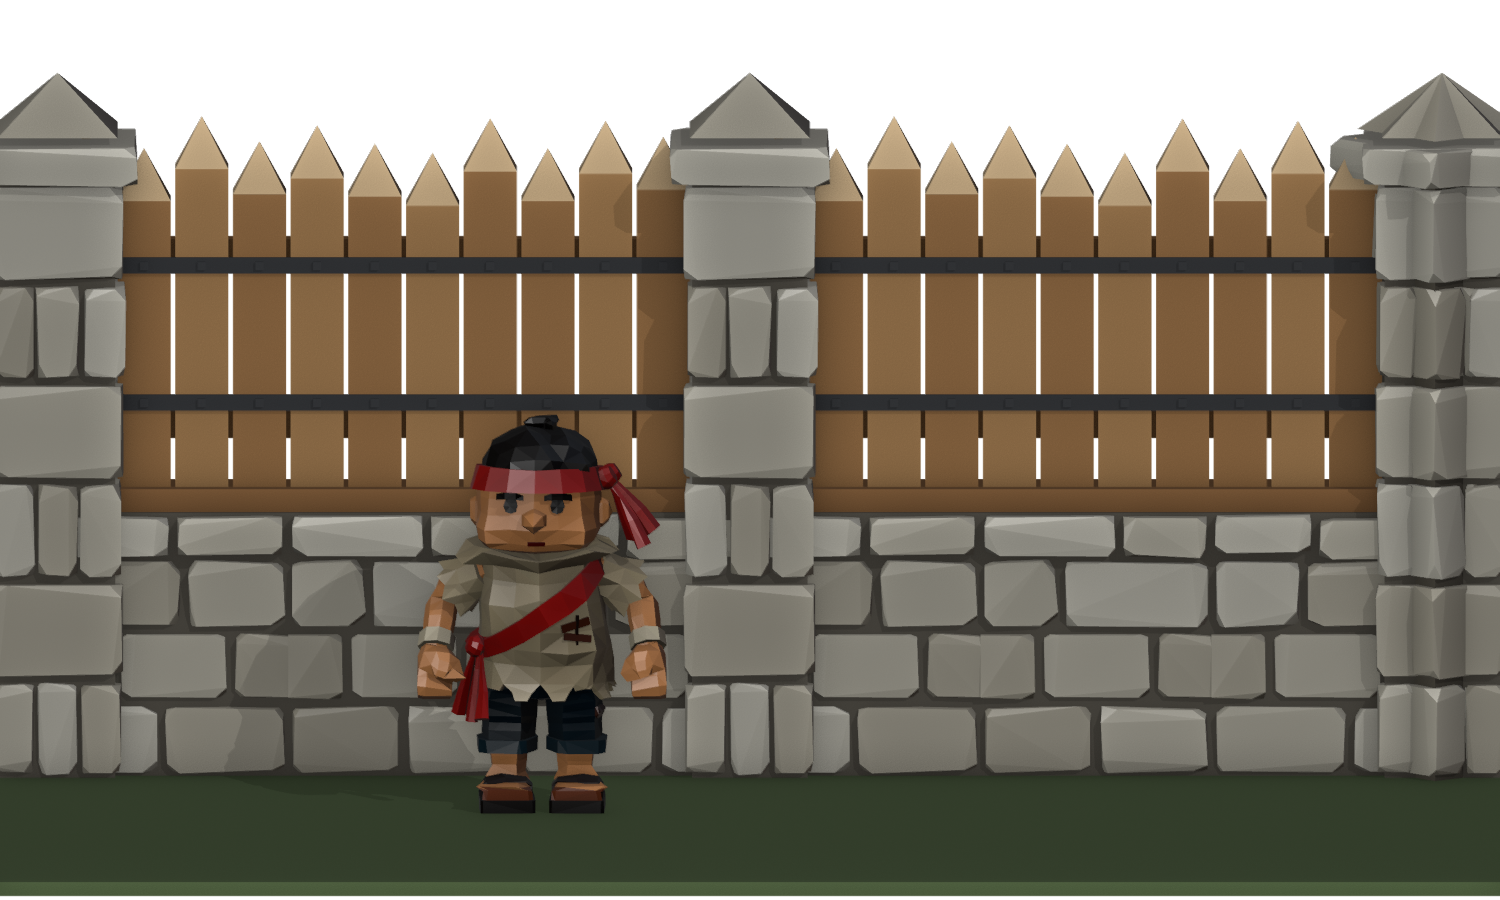
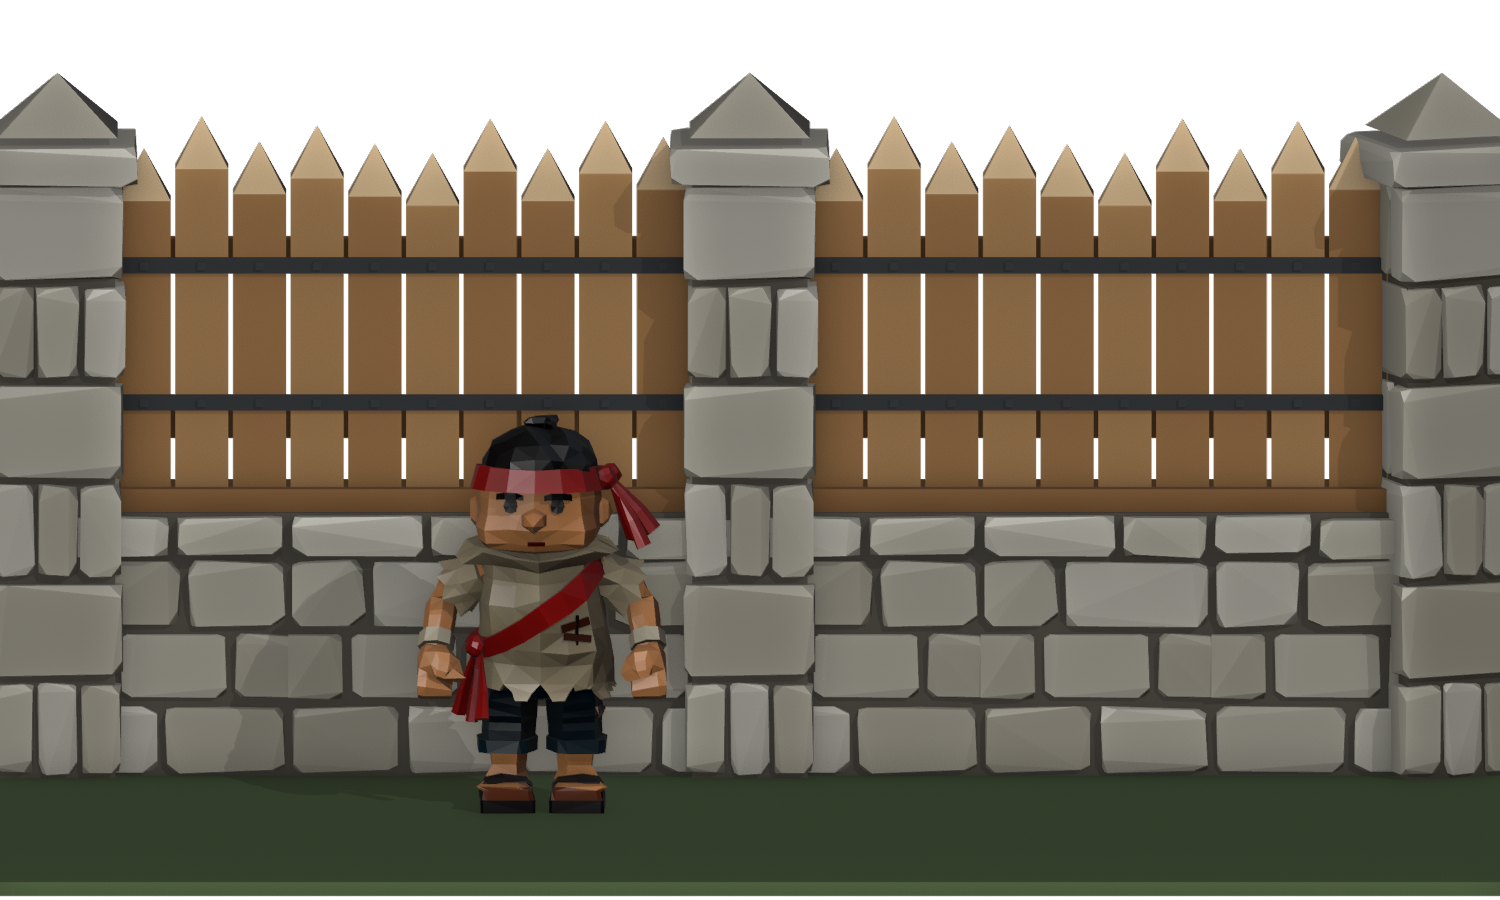
Wall level 2: one pillar per bend, turned to the bisector
The renders' wall_line placed a pillar at the end of each leg and
another at the start of the next, so the 40-degree bend had two pillars
crossed at an angle. It now walks the whole polyline once: one pillar
per node, an end node facing its leg, a bend node on the bisector.
Adds close-up, rear and top renders of the bend.

Claude-Session: https://claude.ai/code/session_016CGLgDxKZuNqnwErxW1EMm

Changed region(s): [[0.8893, 0.0933, 1.0, 0.8711]]

diff --git a/tools/blender/wall_l2_concept.py b/tools/blender/wall_l2_concept.py
@@ -194,15 +194,20 @@ def import_l1(f):
     return [o for o in new if o.parent is None]
 
 
-def wall_line(make_run,make_post,start,yaw,spans):
-    """Posts and runs along a polyline: spans = metres between post centres
-    (whole metres, as the adapter would tile them)."""
-    d=Vector((math.cos(math.radians(yaw)),math.sin(math.radians(yaw)),0));at=Vector(start)
-    make_post(at,yaw)
-    for L in spans:
-        for i in range(L):make_run(at+d*i,yaw,i)
-        at=at+d*L;make_post(at,yaw)
-    return at
+def wall_line(make_run,make_post,start,legs):
+    """A wall along a polyline: legs = [(yaw degrees, whole metres)], as the
+    adapter would tile them. One pillar per node, never two: an end node
+    faces its leg, a bend node is turned to the bisector of the two legs
+    that meet there (a square pillar looks right from both)."""
+    nodes=[Vector(start)];dirs=[]
+    for yaw,L in legs:
+        d=Vector((math.cos(math.radians(yaw)),math.sin(math.radians(yaw)),0))
+        for i in range(L):make_run(nodes[-1]+d*i,yaw,i)
+        nodes.append(nodes[-1]+d*L);dirs.append(yaw)
+    for k,at in enumerate(nodes):
+        inc=dirs[max(0,k-1):k+1]                     # the legs meeting at this node
+        make_post(at,sum(inc)/len(inc))
+    return nodes[-1]
 
 
 def main():
@@ -230,8 +235,7 @@ def main():
     def mk_post(at,yaw):
         o=bpy.data.objects.new('post',pk.data);sc.collection.objects.link(o)
         place(o,at,yaw);o.location-=Matrix.Rotation(math.radians(yaw),3,'Z')@Vector((POST_W/2,0,0))
-    end=wall_line(mk_run,mk_post,(0,0,0),0,[3,3])
-    wall_line(mk_run,mk_post,end,40,[3])
+    wall_line(mk_run,mk_post,(0,0,0),[(0,3),(0,3),(40,3)])
     ground=Part('ground');ground.box((3.5,1.5,-.03),(16,10,.06),'mortar_d');g=ground.build(objs)
     g.data.color_attributes['Col'].data.foreach_set('color',[v for _ in range(len(g.data.loops)) for v in (*[S.lin(c) for c in (104,128,78)],1)])
     # the deckhand for scale, outside the wall
@@ -243,6 +247,9 @@ def main():
     S.shoot(cam,OUT/'wall-l2-front.png',0,8,6.5,target=(3,0,1.4),res=(1500,900))
     S.shoot(cam,OUT/'wall-l2-rear.png',165,24,9.5,target=(4.3,1.0,1.2),res=(1600,1000))
     S.shoot(cam,OUT/'wall-l2-closeup.png',-38,16,3.3,target=(3.1,0,1.5),res=(1200,1100))
+    S.shoot(cam,OUT/'wall-l2-bend.png',-25,30,3.6,target=(6.1,.2,1.6),res=(1000,1100))      # the 40-degree bend: one pillar
+    S.shoot(cam,OUT/'wall-l2-bend-rear.png',150,30,3.6,target=(6.1,.2,1.6),res=(1000,1100))
+    S.shoot(cam,OUT/'wall-l2-bend-top.png',0,89.9,2.4,target=(6.0,0,1.0),res=(1000,1000))
 
     # level 1 and level 2 side by side, same camera and scale
     fetch_l1()

diff --git a/wall-l2-concept/README.md b/wall-l2-concept/README.md
@@ -44,12 +44,17 @@ it too:
 | `Wall2_Run_1m_A` / `B` / `C` | 714 each |
 | `Wall2_Post` | 1,118 |
 
+**At a bend:** one pillar per node, never two, turned halfway between the two legs that meet there. The
+first version put a pillar at the end of one leg and another at the start of the next, crossed at 40°.
+The renders' `wall_line` now walks the whole polyline once. The game's wall adapter needs the same rule.
+
 ## Files
 
 | File | What |
 |---|---|
 | `wall-l2-kit.fbx` | The three runs and the pillar, with their snap and centre markers |
 | `wall-l2-hero.png`, `wall-l2-rear.png`, `wall-l2-front.png`, `wall-l2-closeup.png` | A 9 m stretch with a 40° bend, and the deckhand for scale |
+| `wall-l2-bend.png`, `wall-l2-bend-rear.png`, `wall-l2-bend-top.png` | The 40° bend close up: one pillar, turned to the bisector |
 | `wall-l1-vs-l2.png` | The level 1 palisade (left) and level 2 on one line, same camera |
 | `wall-l2-kit.png` | The modules on their own |
 
